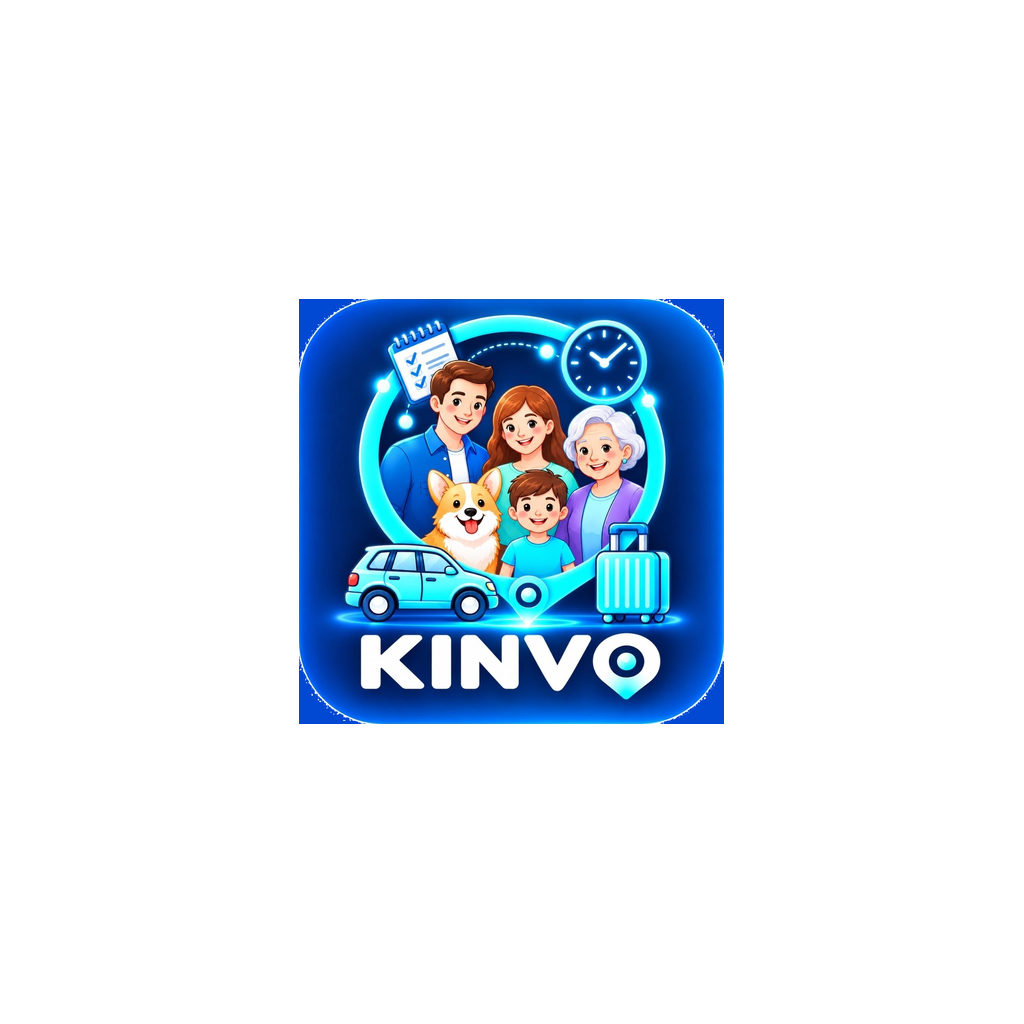
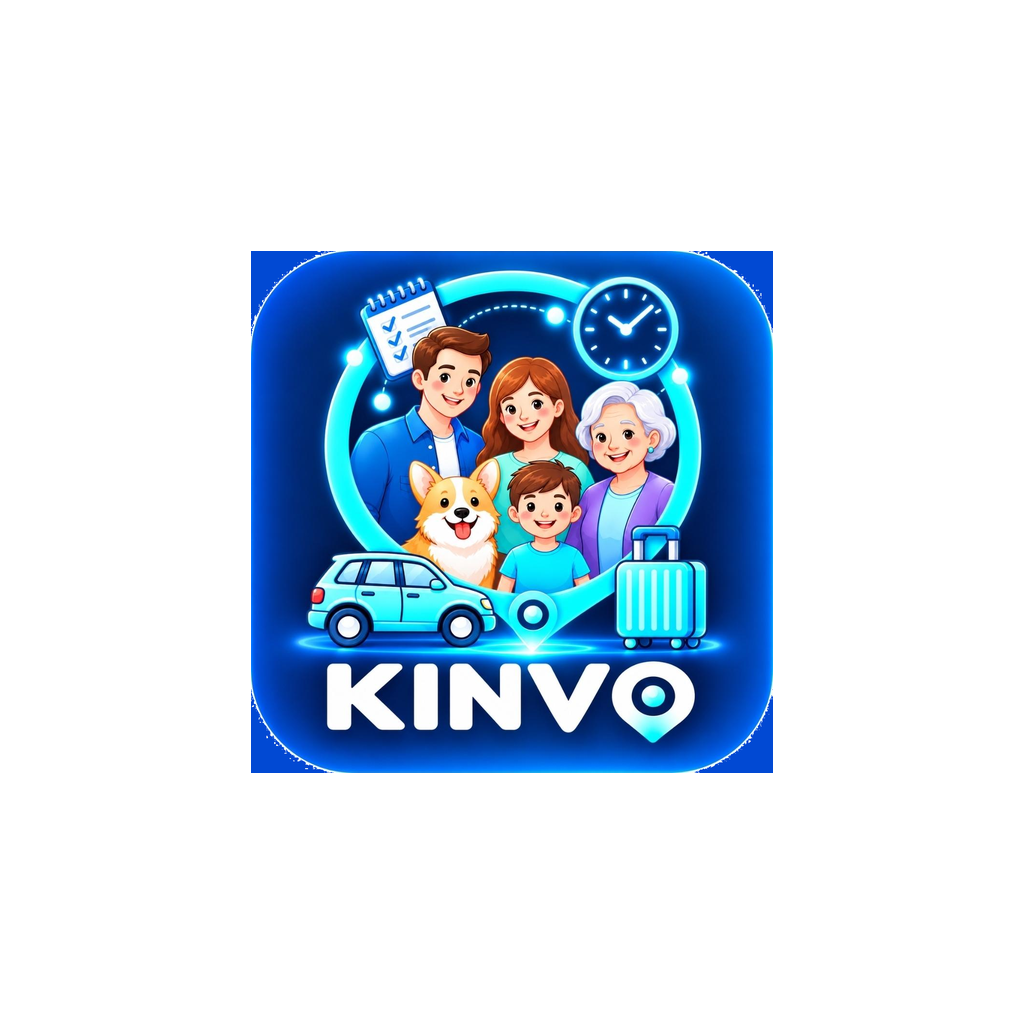
1.68.0 KINVO 아이콘이 안전 원을 더 채우게 한다 (#89)
적응형 여백을 0.96에서 1.18로 올려 그림은 커지고, KINVO 글자와 핀 끝은 원 안에 남는다.

Changed region(s): [[0.2188, 0.2188, 0.7812, 0.7812]]

diff --git a/scripts/render-kinvo-icon.py b/scripts/render-kinvo-icon.py
@@ -1,12 +1,11 @@
 #!/usr/bin/env python3
 """Rasterize the KINVO launcher from resources/kinvo-app-icon.png.
 
-Legacy and web icons use the full artwork. Adaptive foreground keeps that
-artwork inside the 66dp safe circle (a square inscribed in the circle, with
-a little inset) on a transparent canvas. The adaptive background is a flat
-deep blue sampled from the tile, so circle and squircle masks do not clip
-the family or the KINVO word. Notification and monochrome icons stay white
-silhouettes; Android tints those.
+Legacy and web icons use the full artwork. The adaptive foreground is the
+same artwork, larger inside the 108dp layer: big enough to fill the 66dp
+safe circle, still clear of the mask at the KINVO letters and the pin tip.
+The adaptive background is flat deep blue. Notification and monochrome
+icons stay white silhouettes; Android tints those.
 """
 
 from __future__ import annotations
@@ -20,8 +19,10 @@ ROOT = Path(__file__).resolve().parents[1]
 SOURCE = ROOT / "resources" / "kinvo-app-icon.png"
 # Android adaptive safe circle is 66dp inside the 108dp layer.
 SAFE_DIAMETER = 66 / 108
-# Keep the square a hair inside that circle so mask antialiasing does not eat the wordmark.
-SAFE_INSET = 0.96
+# 1.66 used 0.96: a square inscribed in that circle, then shrunk again.
+# 1.18 keeps the KINVO letters and the pin tip about 2dp inside the circle.
+# The blue corners of the tile can meet the mask. The wordmark does not.
+SAFE_INSET = 1.18
 BACKGROUND = (0x01, 0x49, 0xD3)  # #0149D3, the tile's deep blue
 
 
@@ -246,7 +247,7 @@ def emit() -> None:
         data["background_color"] = "#0149D3"
         data["theme_color"] = "#0149D3"
         manifest.write_text(json.dumps(data, indent=2, ensure_ascii=False) + "\n", encoding="utf-8")
-    print("KINVO icons written. adaptive background #0149D3, foreground inside the 66dp circle")
+    print("KINVO icons written. adaptive background #0149D3, safe inset 1.18")
 
 
 if __name__ == "__main__":

diff --git a/README.md b/README.md
@@ -10,12 +10,12 @@
 | :--- | :--- | :--- |
 | 회사 홈 | GitHub Pages | https://jadegun1124.github.io/kinnex/ |
 | 앱 화면 미리보기 | 같은 Pages의 `?app=1` | https://jadegun1124.github.io/kinnex/?app=1 |
-| 안드로이드 앱 | GitHub Releases APK v1.67.0 | https://github.com/jadegun1124/umap/releases/download/v1.67.0/kinnex-v1.67.0.apk |
-| 릴리스 페이지 | GitHub Releases | https://github.com/jadegun1124/umap/releases/tag/v1.67.0 |
+| 안드로이드 앱 | GitHub Releases APK v1.68.0 | https://github.com/jadegun1124/umap/releases/download/v1.68.0/kinnex-v1.68.0.apk |
+| 릴리스 페이지 | GitHub Releases | https://github.com/jadegun1124/umap/releases/tag/v1.68.0 |
 
 Google Play, App Store, TestFlight에는 올리지 않았습니다. iOS는 아이콘 에셋만 있고 설치 파일은 없습니다.
 
-`main`에 푸시하면 GitHub Actions가 회사 홈을 Pages에 배포하고, 같은 커밋으로 디버그 APK를 만들어 GitHub Release `v1.67.0`의 `kinnex-v1.67.0.apk`를 갱신합니다. 이전 빌드는 `v1.66.0`, `v1.65.0`, `v1.64.0`, `v1.63.0`, `v1.62.0`, `v1.61.0`, `v1.60.0`, `v1.59.0`, `v1.58.0`, `v1.57.0`, `v1.56.0`, `v1.55.0`, `v1.54.0`, `v1.53.0`, `v1.52.0`, `v1.51.0`, `v1.50.0`, `v1.49.0`, `v1.48.0`, `v1.47.0`, `v1.46.0`, `v1.45.0`, `v1.44.0`, `v1.43.0`, `v1.42.0`, `v1.41.0`, `v1.40.0`, `v1.39.0`, `v1.38.0`, `v1.37.0`, `v1.36.2`, `v1.36.1`, `v1.36.0`, `v1.35.0`, `v1.34.0`, `v1.33.0`, `v1.32.0`, `v1.31.1`, `v1.31.0`, `v1.30.0`, `v1.29.2`, `v1.29.1`, `v1.29.0`, `v1.27.0`, `v1.26.0`, `v1.25.0`, `v1.24.0`, `v1.23.0`, `v1.22.0`, `v1.21.0`, `v1.20.0`, `v1.19.0`, `v1.18.0`, `v1.17.0`, `v1.16.0`, `v1.15.0`, `v1.14.0`, `v1.13.0`, `v1.12.0`, `v1.11.0`, `v1.10.0`, `v1.9.0`, `v1.8.0`, `v1.7.0`, `v1.6.0`, `v1.5.0`, `v1.4.0`, `v1.3.0`, `v1.2.0`, `v1.1.0`, `v1.0.0`에 남아 있습니다.
+`main`에 푸시하면 GitHub Actions가 회사 홈을 Pages에 배포하고, 같은 커밋으로 디버그 APK를 만들어 GitHub Release `v1.68.0`의 `kinnex-v1.68.0.apk`를 갱신합니다. 이전 빌드는 `v1.67.0`, `v1.66.0`, `v1.65.0`, `v1.64.0`, `v1.63.0`, `v1.62.0`, `v1.61.0`, `v1.60.0`, `v1.59.0`, `v1.58.0`, `v1.57.0`, `v1.56.0`, `v1.55.0`, `v1.54.0`, `v1.53.0`, `v1.52.0`, `v1.51.0`, `v1.50.0`, `v1.49.0`, `v1.48.0`, `v1.47.0`, `v1.46.0`, `v1.45.0`, `v1.44.0`, `v1.43.0`, `v1.42.0`, `v1.41.0`, `v1.40.0`, `v1.39.0`, `v1.38.0`, `v1.37.0`, `v1.36.2`, `v1.36.1`, `v1.36.0`, `v1.35.0`, `v1.34.0`, `v1.33.0`, `v1.32.0`, `v1.31.1`, `v1.31.0`, `v1.30.0`, `v1.29.2`, `v1.29.1`, `v1.29.0`, `v1.27.0`, `v1.26.0`, `v1.25.0`, `v1.24.0`, `v1.23.0`, `v1.22.0`, `v1.21.0`, `v1.20.0`, `v1.19.0`, `v1.18.0`, `v1.17.0`, `v1.16.0`, `v1.15.0`, `v1.14.0`, `v1.13.0`, `v1.12.0`, `v1.11.0`, `v1.10.0`, `v1.9.0`, `v1.8.0`, `v1.7.0`, `v1.6.0`, `v1.5.0`, `v1.4.0`, `v1.3.0`, `v1.2.0`, `v1.1.0`, `v1.0.0`에 남아 있습니다.
 
 ## 화면
 
@@ -75,7 +75,7 @@ GitHub Actions secret `VITE_VWORLD_API_KEY`와 `VWORLD_API_KEY`는 같은 값입
 런처 마크는 KINVO 그림이다. 가족, 코기, 차, 캐리어, 흰 KINVO 글자가 짙은 파란 타일 안에 있다. 원본은 `resources/kinvo-app-icon.png`다.
 
 - 웹 파비콘과 PWA 아이콘(192/512, maskable 포함): `public/`
-- 안드로이드 런처(레거시 사각형·원형), 적응형(짙은 파랑 배경 + 66dp 안전 원 안의 그림), 모노크롬, 알림 작은 아이콘, 스플래시: `android/app/src/main/res/`
+- 안드로이드 런처(레거시 사각형·원형), 적응형(짙은 파랑 배경 + 66dp 안전 원을 더 채운 그림, 여백 0.96 → 1.18), 모노크롬, 알림 작은 아이콘, 스플래시: `android/app/src/main/res/`
 - iOS 앱 아이콘과 스플래시 세트: `resources/ios/`
 - 런처에 쓰는 타일: `resources/icon-master.png`
 - 다시 쓰기: `python3 scripts/render-kinvo-icon.py`
@@ -93,9 +93,9 @@ npm run dev
 
 ## 안드로이드 APK
 
-받는 곳: https://github.com/jadegun1124/umap/releases/download/v1.67.0/kinnex-v1.67.0.apk
+받는 곳: https://github.com/jadegun1124/umap/releases/download/v1.68.0/kinnex-v1.68.0.apk
 
-`main` 푸시마다 `Build Android APK (Kinnex)` 워크플로가 웹을 빌드하고 `dist` 를 안드로이드 에셋으로 복사한 뒤 `assembleRelease` 로 APK를 만듭니다. 서명은 `android/app/umap-sideload.keystore` 이고 SHA-1은 `00:57:37:35:22:70:B8:4C:7F:B6:01:61:29:BD:A9:A3:CD:09:35:0C` 입니다. 결과 파일은 GitHub Release `v1.67.0`에 올립니다. 앱 `versionName`은 `1.67.0`, `versionCode`는 73입니다. Play 스토어 트랙은 없습니다.
+`main` 푸시마다 `Build Android APK (Kinnex)` 워크플로가 웹을 빌드하고 `dist` 를 안드로이드 에셋으로 복사한 뒤 `assembleRelease` 로 APK를 만듭니다. 서명은 `android/app/umap-sideload.keystore` 이고 SHA-1은 `00:57:37:35:22:70:B8:4C:7F:B6:01:61:29:BD:A9:A3:CD:09:35:0C` 입니다. 결과 파일은 GitHub Release `v1.68.0`에 올립니다. 앱 `versionName`은 `1.68.0`, `versionCode`는 74입니다. Play 스토어 트랙은 없습니다.
 
 1.16.0까지 그 빌드는 러너마다 새로 만든 디버그 키로 서명했습니다. 패키지가 `kr.co.umap.tracker`여도 인증서가 다르면 안드로이드는 덮어쓰기를 거절해서, 지우고 다시 깔아야 했습니다. 1.17.0부터 debug와 release는 저장소의 `android/app/umap-sideload.keystore`(별칭 `umap-sideload`)로 서명합니다. 비밀번호는 `android/app/build.gradle`에 있습니다. 인증서 SHA-256은 `4A:15:08:0F:72:C3:87:D1:E8:50:A8:DE:5A:89:34:9A:B4:1A:48:0D:C5:97:71:AB:22:9C:85:44:C8:61:7A:6C`입니다. 이 키는 가족 폰에 직접 설치하는 사이드로드 전용이고, Play 앱 서명 키가 아닙니다.
 
@@ -120,7 +120,7 @@ npm run dev
 
 1. [Naver Developers](https://developers.naver.com/apps/#/register) → 애플리케이션 등록 → 사용 API **네아로(네이버 로그인)**.
 2. 로그인 오픈 API 서비스 환경 **Android**. 패키지 이름 `kr.co.umap.tracker`.
-3. 다운로드 URL `https://github.com/jadegun1124/umap/releases/download/v1.67.0/kinnex-v1.67.0.apk`. 설정 화면의 앱 업데이트는 버전과 상관없이 `https://github.com/jadegun1124/umap/releases/latest` 를 엽니다.
+3. 다운로드 URL `https://github.com/jadegun1124/umap/releases/download/v1.68.0/kinnex-v1.68.0.apk`. 설정 화면의 앱 업데이트는 버전과 상관없이 `https://github.com/jadegun1124/umap/releases/latest` 를 엽니다.
 4. Callback URL은 `https://umap-family-sync.umap-jadegun.workers.dev/v1/naver/callback` 입니다. Worker가 그 주소를 `kinnex://naver` 로 돌려 앱이 인가 코드를 받습니다. 웹은 `https://jadegun1124.github.io/kinnex/` 와 `http://localhost:5173/` 입니다.
 5. Client ID `dQCiRLIzbNkDG6ULiroD` 는 공개 값이라 앱과 Worker `NAVER_CLIENT_ID`에 들어 있습니다. `VITE_NAVER_CLIENT_ID`가 있으면 그 값이 우선입니다.
 6. Client Secret은 `npx wrangler secret put NAVER_CLIENT_SECRET`으로만 Worker에 넣습니다. 앱, 저장소, APK에 넣지 않습니다. 비밀이 없으면 Worker는 네이버 로그인을 거절하고 `NAVER_CLIENT_SECRET`이 없다고 알립니다.

diff --git a/AGENTS.md b/AGENTS.md
@@ -7,7 +7,7 @@
 - 지도: Leaflet. 바탕은 국토교통부 VWorld 2D Base 한 종류. 키는 `import.meta.env.VITE_VWORLD_API_KEY`만 읽는다. 로컬은 gitignore된 `.env`의 `VITE_VWORLD_API_KEY`. Actions에는 `VITE_VWORLD_API_KEY`와 `VWORLD_API_KEY`가 있고, APK와 Pages 빌드가 Vite 이름으로 넘겨 결과물에 포함한다. 키가 없으면 한국어 안내를 보여 주고 타일을 요청하지 않는다. 위성·CARTO·OSM 전환은 없다. 이동 경로는 `localStorage` 세션에 둔다. 메인 지도는 아직 기록으로 넘기지 않은 이동 중 궤적만 그린다. 걸음은 5분, 시속 약 7km 이상은 12분 머물면 그 구간을 기록으로 넘기고 메인 선에서는 뺀다. 기록 화면은 고른 사람의 그날 저장 궤적을 그린다. 샘플 사람·예시 궤적은 넣지 않는다. 핀·구성원 카드·기록·방문한 곳 이름은 최신 정확한 위치 좌표로 구한다. 그 점이 단지·건물 폴리곤 안이면 그 이름이고, 아니면 실제 거리로 가장 가까운 장소다. 머무름이면 체류 중심점에 맞춘다.
 - 로그인: 첫 화면은 카카오, 네이버, 복구 코드로 불러오기, 새로 시작이다. 서버에 이름이 있는 계정이면 이름·가족·기록을 그대로 불러오고 이름을 다시 묻지 않는다. 새 계정이면 그 다음에 표시 이름을 묻는다. 카카오·네이버 로그인은 계정 연결용이고, Worker가 토큰을 확인한다. 이 폰에 프로필이나 계정 키가 있으면 연결 모드로 보낸다. 세션이 없어도 스냅샷의 구성원·프로필 키가 맞으면 그 계정에 붙인다. 스냅샷이 없을 때만 연결을 거절한다. 카카오 네이티브 앱 키와 네이버 Client ID는 공개 값이라 앱에 둔다. 웹 카카오는 `VITE_KAKAO_JAVASCRIPT_KEY`가 있을 때만 연다. 네이버 Client Secret은 Worker 비밀 `NAVER_CLIENT_SECRET`에만 둔다. 없으면 네이버 코드 교환은 그 사실을 말하고 로그인하지 않는다. 복구 코드로도 같은 사람과 가족 방을 불러온다. 설정에 계정 연결이 있다. 로그아웃은 서버 백업을 남긴다. 회원 탈퇴는 서버 계정, 기록, 카카오·네이버 연결, 복구 코드를 지운다. 제3자 제공 기록은 좌표 없이 제공일부터 6개월이 끝날 때까지 남긴 뒤 지운다. 전화번호는 신원으로 받지 않는다. 카카오 id·네이버 id는 구성원 ID로 쓰지 않는다. 예전 계정 레코드의 google 필드는 있으면 무시한다. Google 로그인은 없다.
 - 앱 셸: Capacitor Android. 표시 이름 Kinnex. 패키지 `kr.co.umap.tracker`. `android:allowBackup`은 false이고, 백업 규칙과 데이터 추출 규칙은 클라우드 백업과 기기 간 이전의 모든 도메인을 뺀다. 업데이트는 이 폰의 데이터를 지우지 않는다. 다시 설치한 뒤 복원은 카카오·네이버·복구 코드뿐이다.
-- 아이콘: `python3 scripts/render-kinvo-icon.py` 가 `resources/kinvo-app-icon.png` 의 KINVO 그림(가족, 코기, 차, 캐리어, 흰 KINVO 글자)을 런처·스플래시·파비콘에 넣는다. 적응형 배경은 짙은 파랑 `#0149D3`이고, 그림은 66dp 안전 원 안에 들어가는 정사각형으로 줄여 전경에 둔다. 알림 작은 아이콘과 모노크롬은 흰 실루엣으로 둔다.
+- 아이콘: `python3 scripts/render-kinvo-icon.py` 가 `resources/kinvo-app-icon.png` 의 KINVO 그림(가족, 코기, 차, 캐리어, 시계, 체크리스트, 흰 KINVO 글자)을 런처·스플래시·파비콘에 넣는다. 적응형 배경은 짙은 파랑 `#0149D3`이다. 전경은 108dp 레이어에서 66dp 안전 원을 더 채운다. 예전 여백 0.96 대신 1.18이라 글자와 핀 끝은 원 안에 남고, 파란 모서리는 마스크에 닿을 수 있다. 알림 작은 아이콘과 모노크롬은 흰 실루엣으로 둔다.
 
 ## 제품 경계
 

diff --git a/PRD.md b/PRD.md
@@ -8,7 +8,7 @@
 
 제품 표시 이름은 Kinnex. 저장소는 `jadegun1124/umap`.
 
-회사 홈은 GitHub Pages `https://jadegun1124.github.io/kinnex/`. 안드로이드 설치 파일은 GitHub Releases `https://github.com/jadegun1124/umap/releases/download/v1.67.0/kinnex-v1.67.0.apk`. Play 스토어와 App Store 배포는 없다.
+회사 홈은 GitHub Pages `https://jadegun1124.github.io/kinnex/`. 안드로이드 설치 파일은 GitHub Releases `https://github.com/jadegun1124/umap/releases/download/v1.68.0/kinnex-v1.68.0.apk`. Play 스토어와 App Store 배포는 없다.
 
 ## 웹
 
